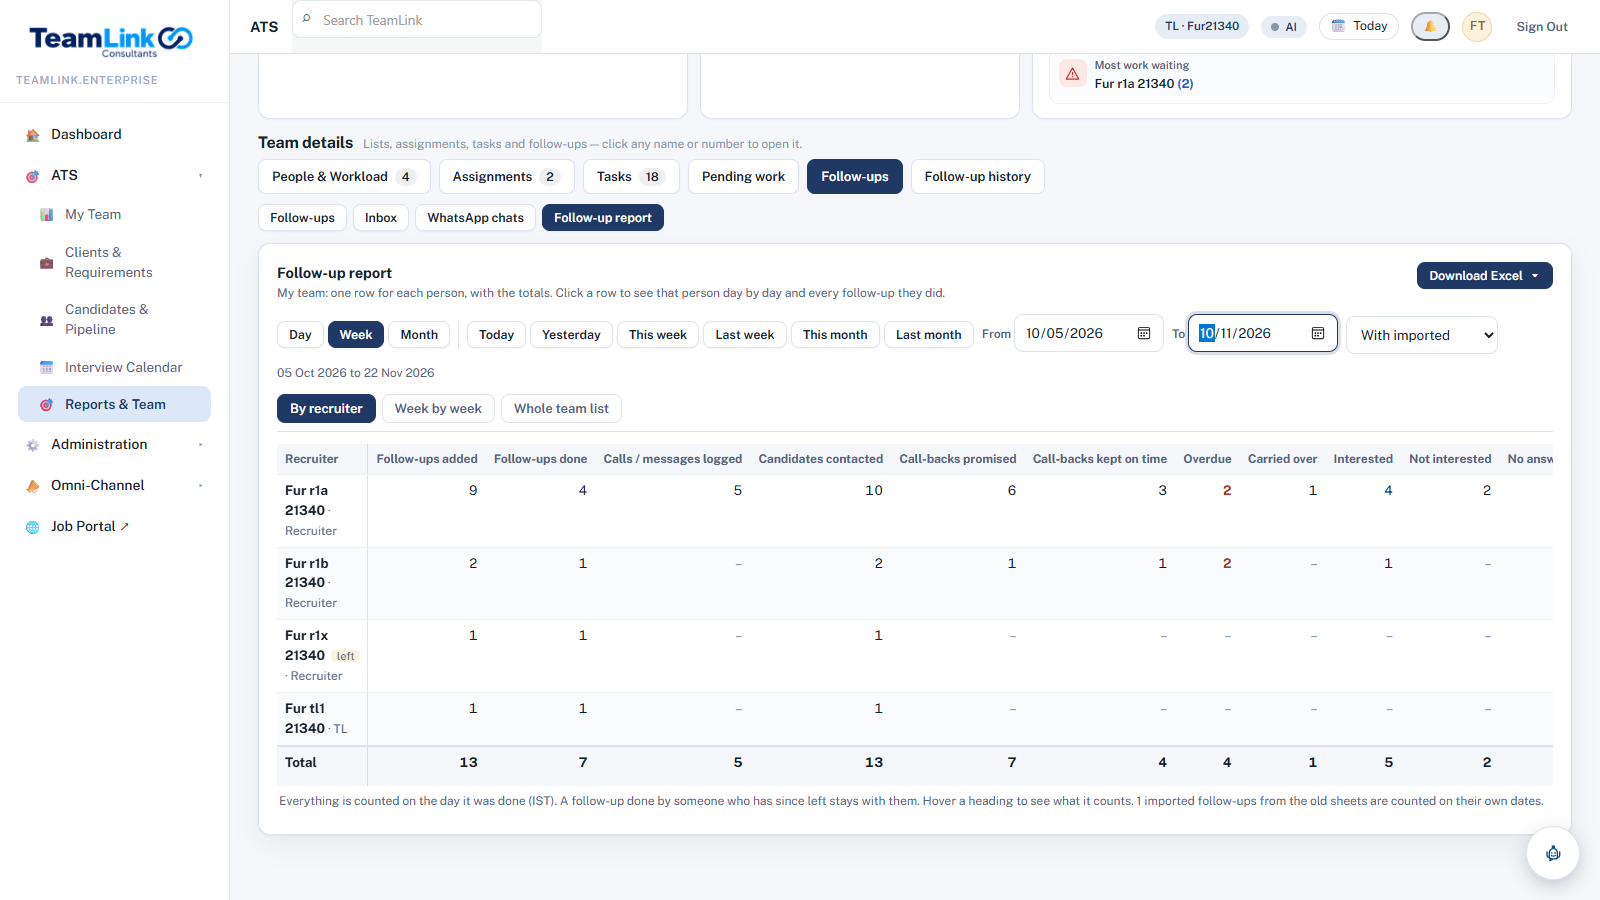
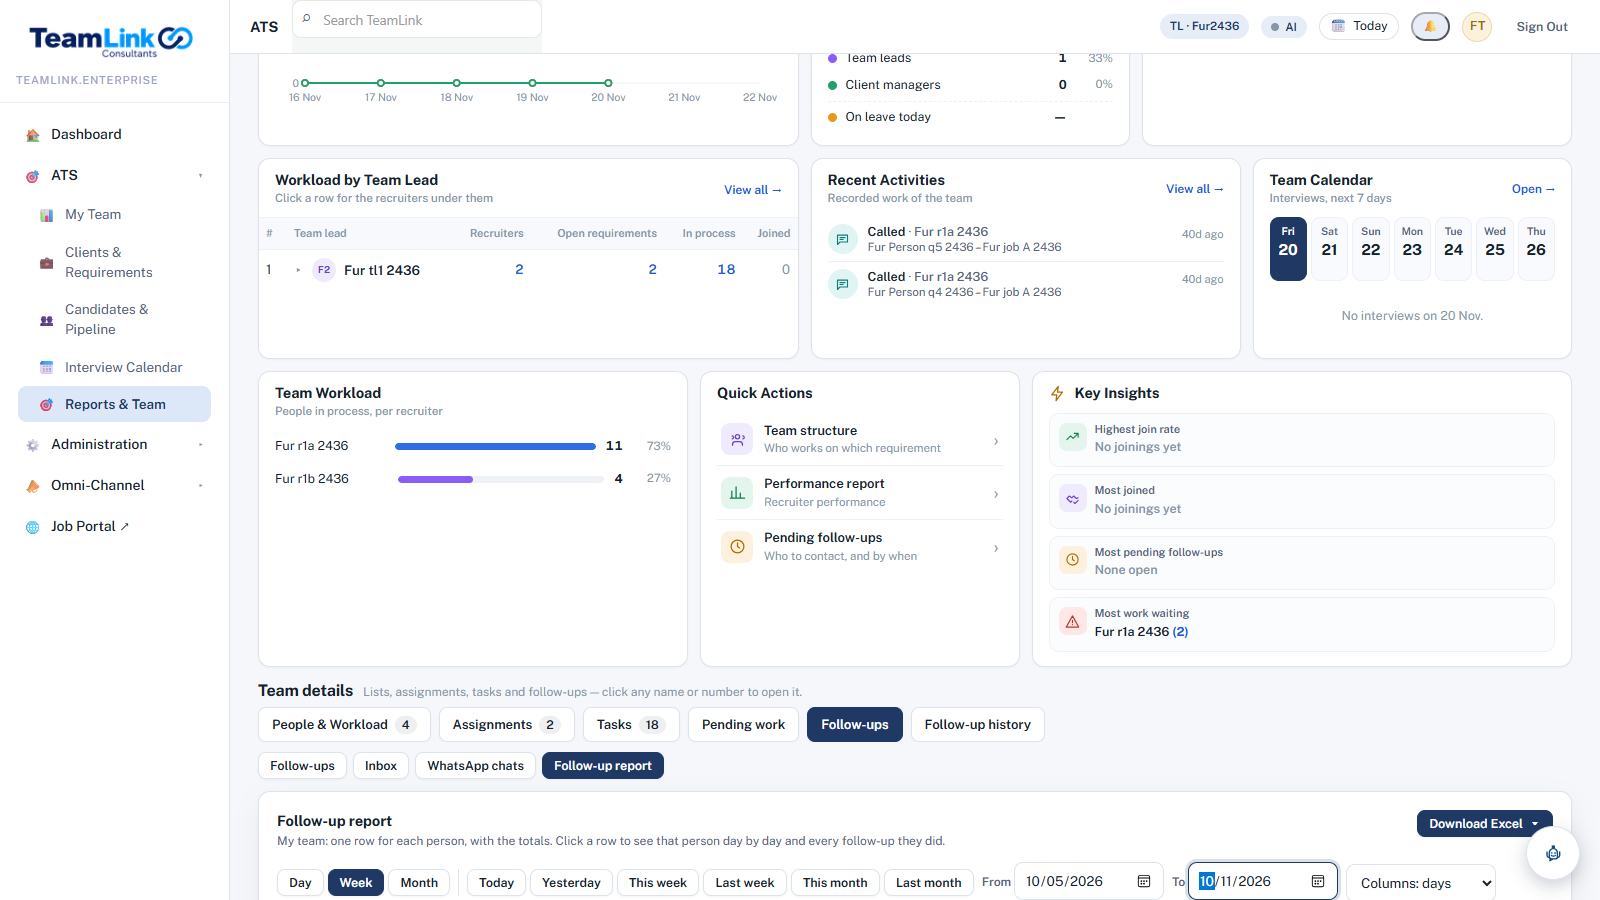
Follow-up report: browser check passes, screenshots

diff --git a/backend/scripts/followup-report-test.js b/backend/scripts/followup-report-test.js
@@ -396,7 +396,7 @@ const Z = (s) => new Date(s); // an instant, written in UTC ("...Z")
       await page.waitForTimeout(1200);
       check('browser, TL1: a recruiter row opens that recruiter\'s day-by-day table and their list', (await page.locator('.fur-drill tbody tr').count()) === 7 && (await page.locator('.fur-list tbody tr').count()) > 5);
       await page.screenshot({ path: path.join(shots, '2-tl-recruiter-drill.png'), fullPage: true });
-      await page.getByRole('tab', { name: /Day by day/ }).click();
+      await page.locator('.fur-tabs').getByRole('tab', { name: 'Day by day' }).click();
       await page.waitForTimeout(600);
       await page.screenshot({ path: path.join(shots, '3-tl-day-by-day.png') });
       await ctx.close();
@@ -406,7 +406,7 @@ const Z = (s) => new Date(s); // an instant, written in UTC ("...Z")
       await setDays(page, '2026-10-05', '2026-10-11');
       t = await text(page);
       check('browser, R1a: only their own row, no other name, no Total row', t.includes(r1a.u.name) && ![r1b.u.name, tl1.u.name, r1x.u.name, ...R2NAMES].some((x) => t.includes(x)) && (await page.locator('.fur-table tbody tr').count()) === 1 && !/Total/.test(t), t.slice(0, 300));
-      await page.getByRole('tab', { name: /My follow-ups/ }).click();
+      await page.locator('.fur-tabs').getByRole('tab', { name: 'My follow-ups' }).click();
       await page.waitForTimeout(1500);
       t = await text(page);
       check('browser, R1a: their list shows only their own follow-ups', ![r1b.u.name, tl1.u.name, ...R2NAMES].some((x) => t.includes(x)) && (await page.locator('.fur-list tbody tr').count()) > 5);
